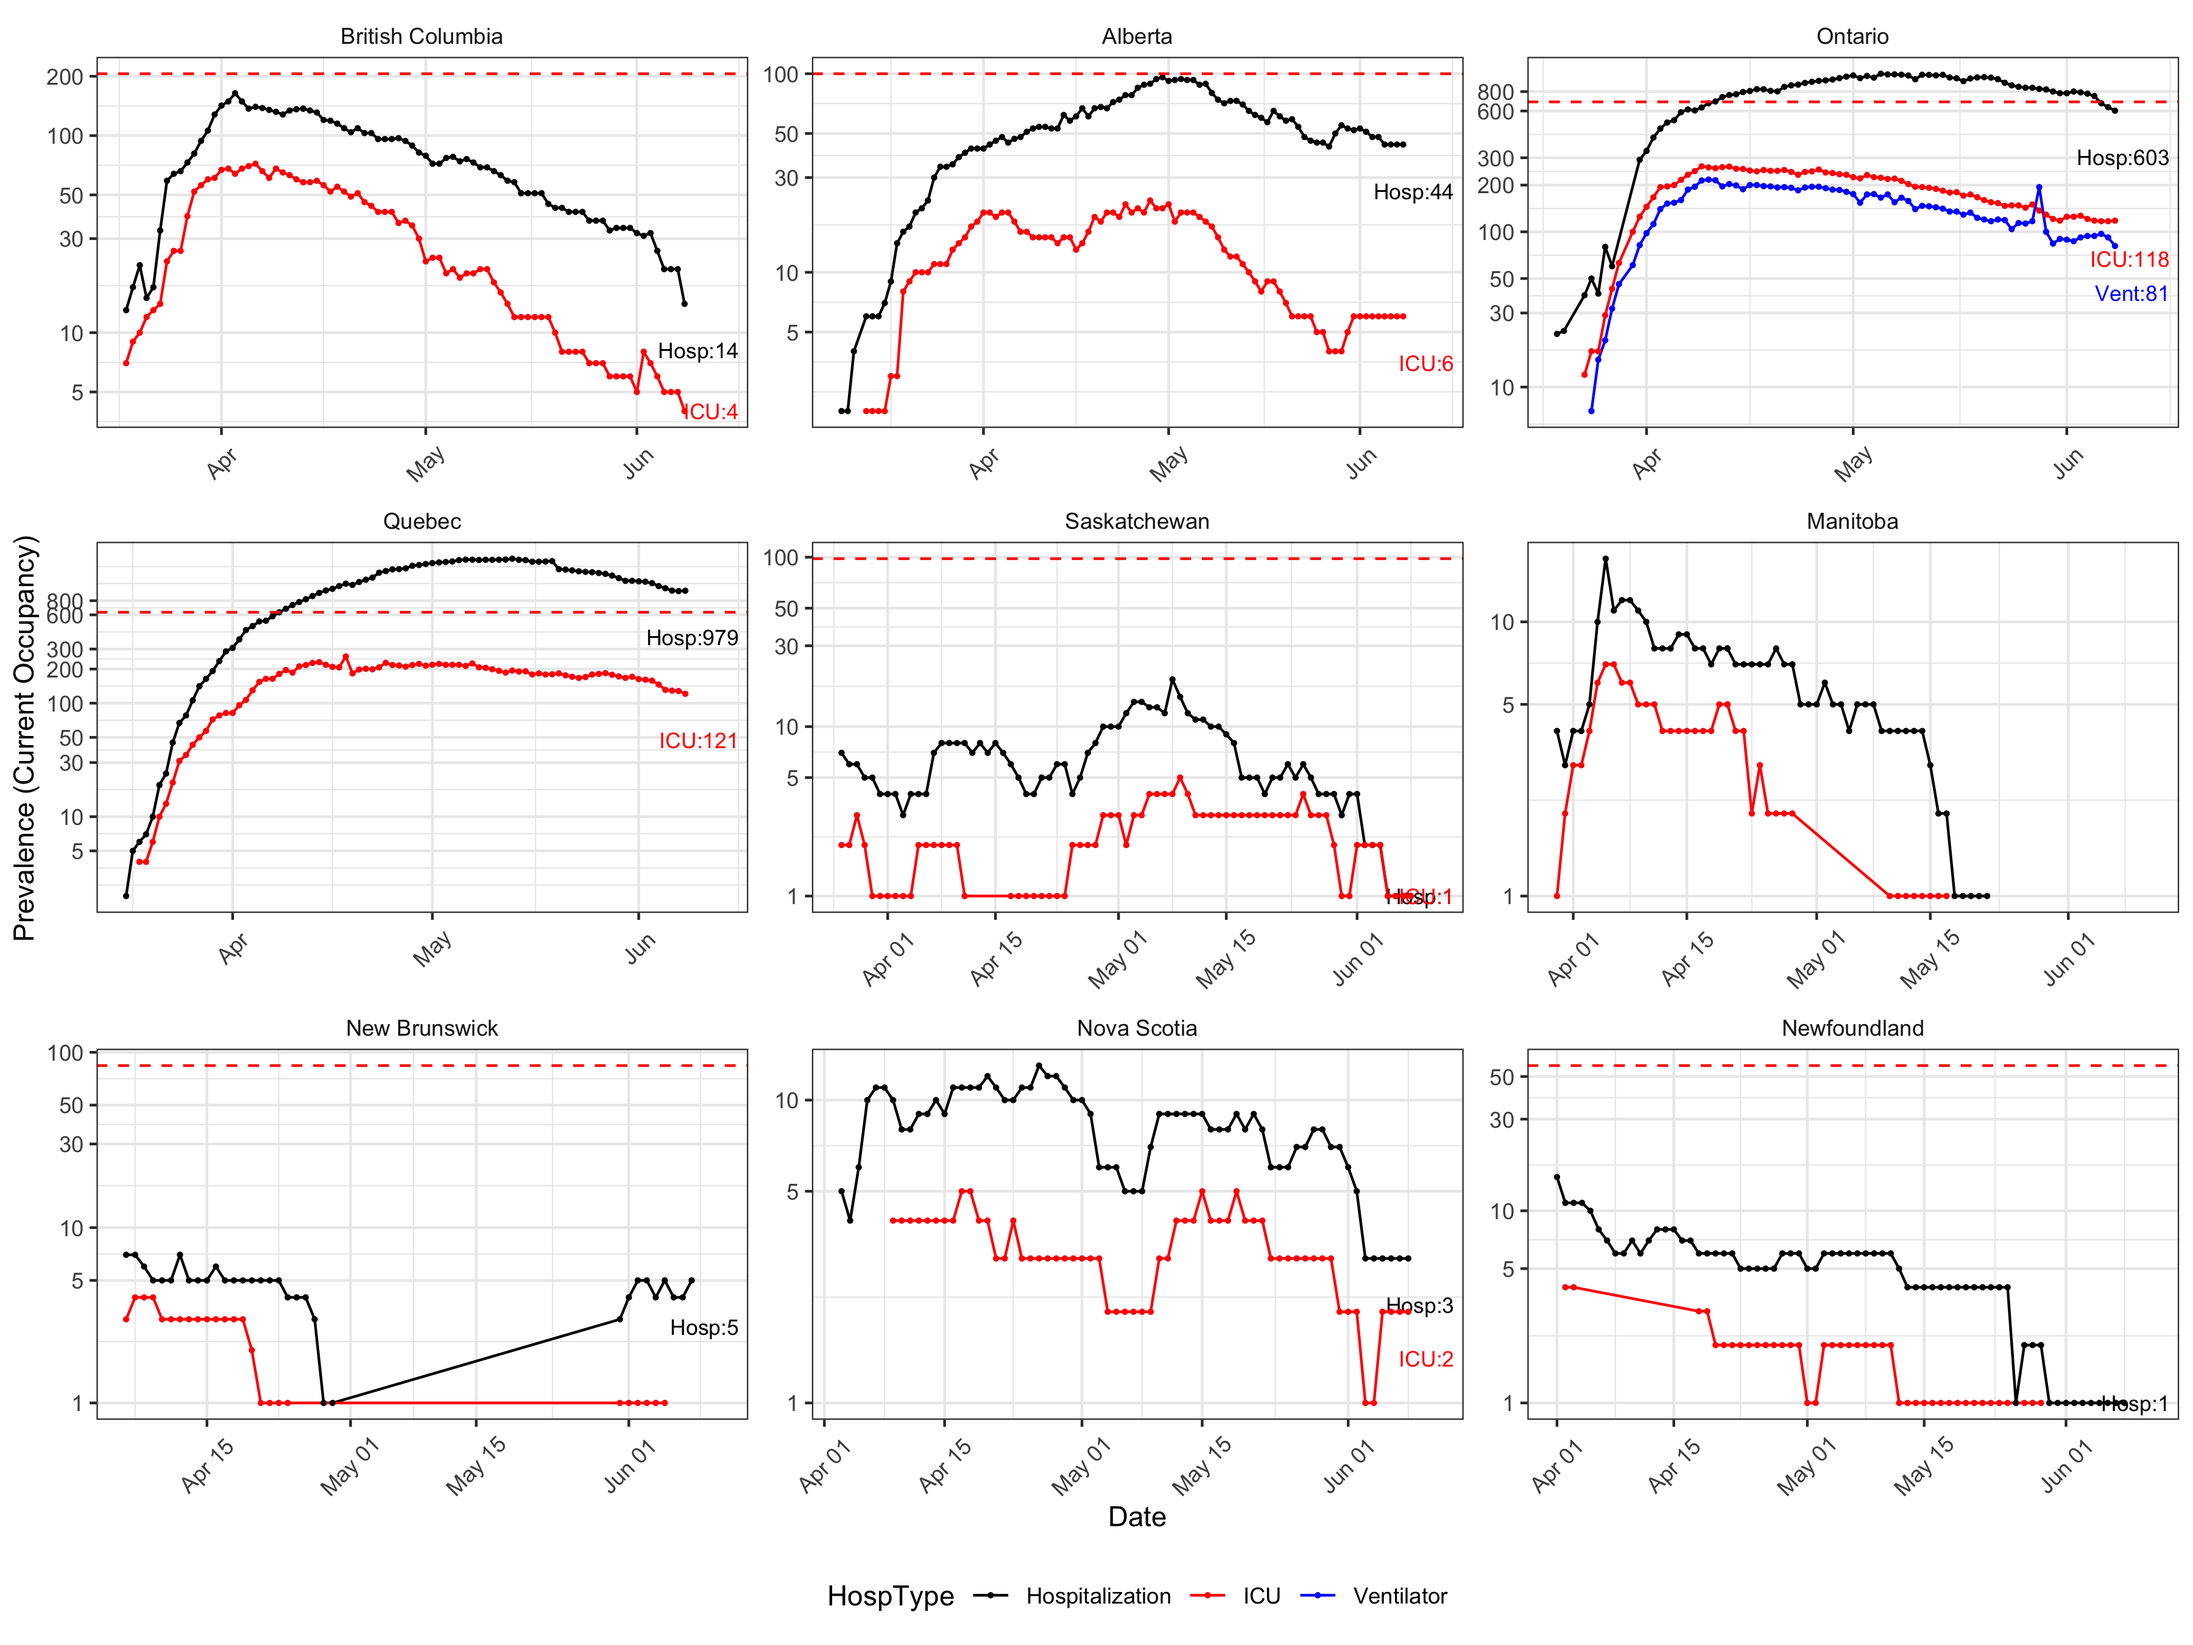
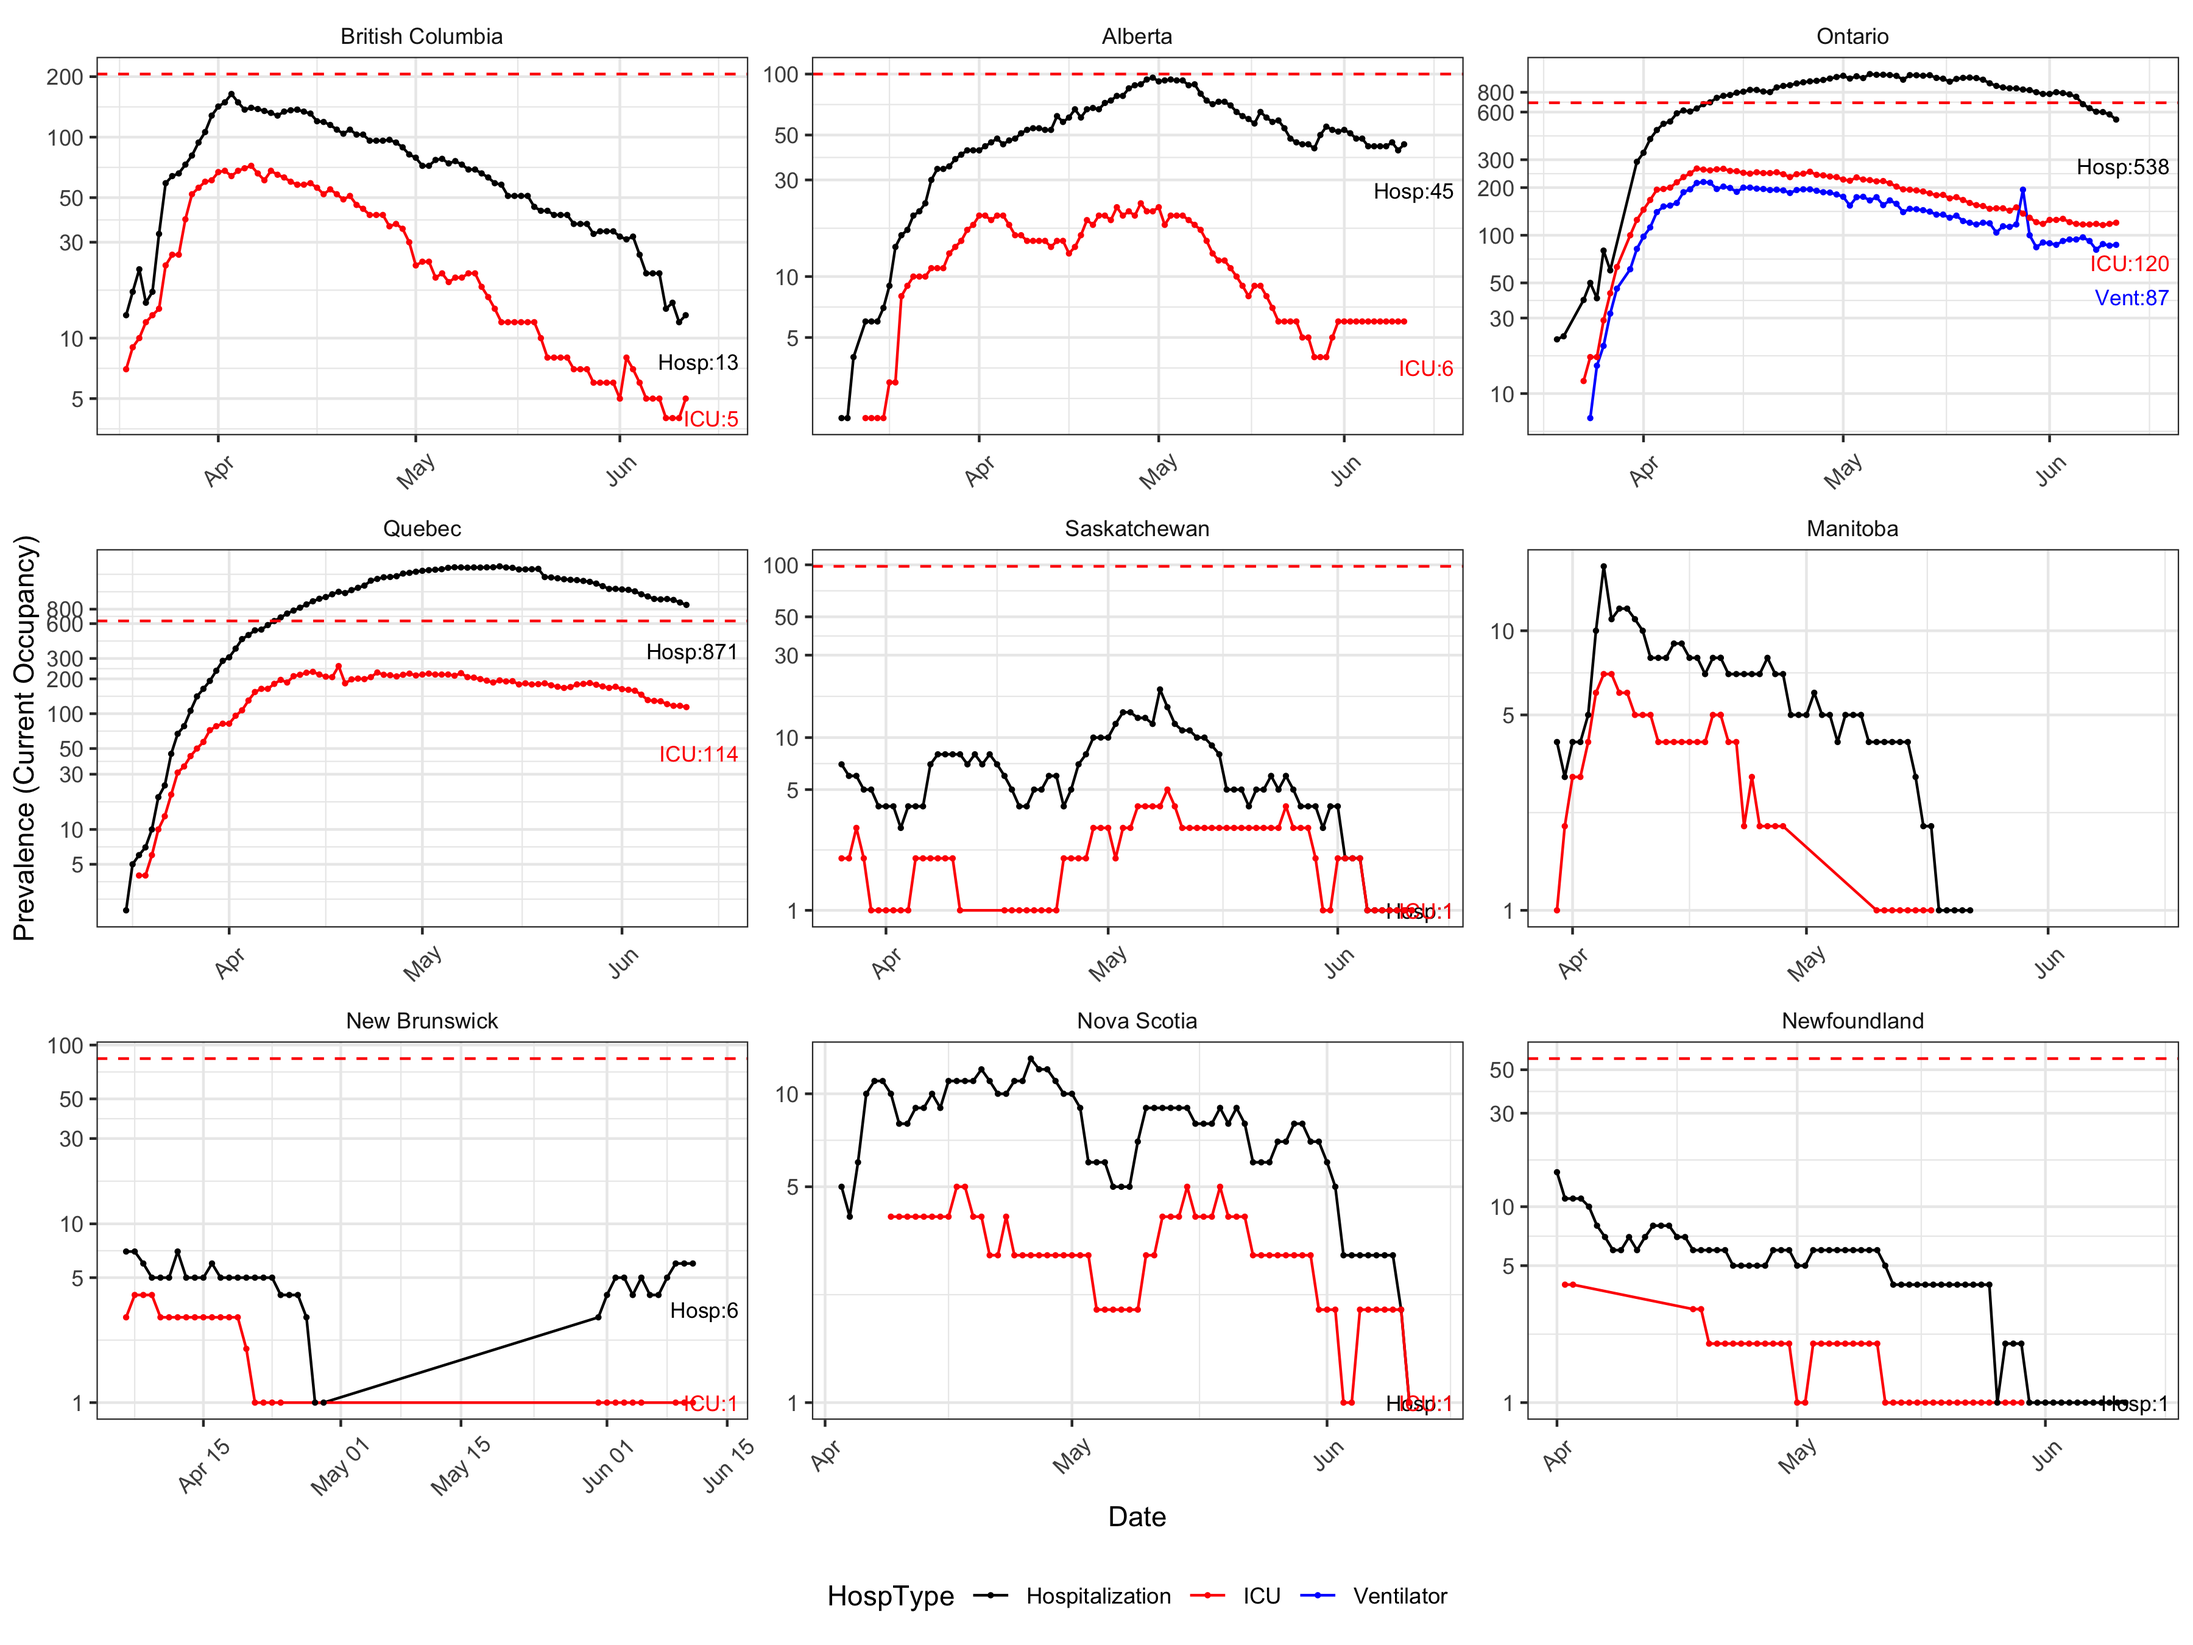
June 11th update

diff --git a/index.md b/index.md
@@ -1,7 +1,7 @@
 This is a public open-resource page for COVID19 data for Canada, 
 maintained by [Michael Li](https://wzmli.github.io/) at McMaster University.
 
-_last updated: June 8th 20:22 Toronto time_
+_last updated: June 11th 19:51 Toronto time_
 
 ## Hospitalization/ICU counts
 
@@ -11,11 +11,11 @@ _These plots are generated using the curated data_ provided below.
 
 Dashed red line represents current ICU capacity allocated to COVID, this line will adjust when we have more details on expansions. This line does not represent the general ICU capacity (which includes all non-COVID cases). The current ICU capacities used in the plot can be found in the [capacity data set](capacity.csv).
 
-## Positive Proportion of Test for June 8th 2020
+## Positive Proportion of Test for June 11th 2020
 
 <img src="git_push/ggtoday.png" width="700" height="500">
 
-NS did not update new test.
+YT did not update new test.
 
 ## COVID19 Data
 
